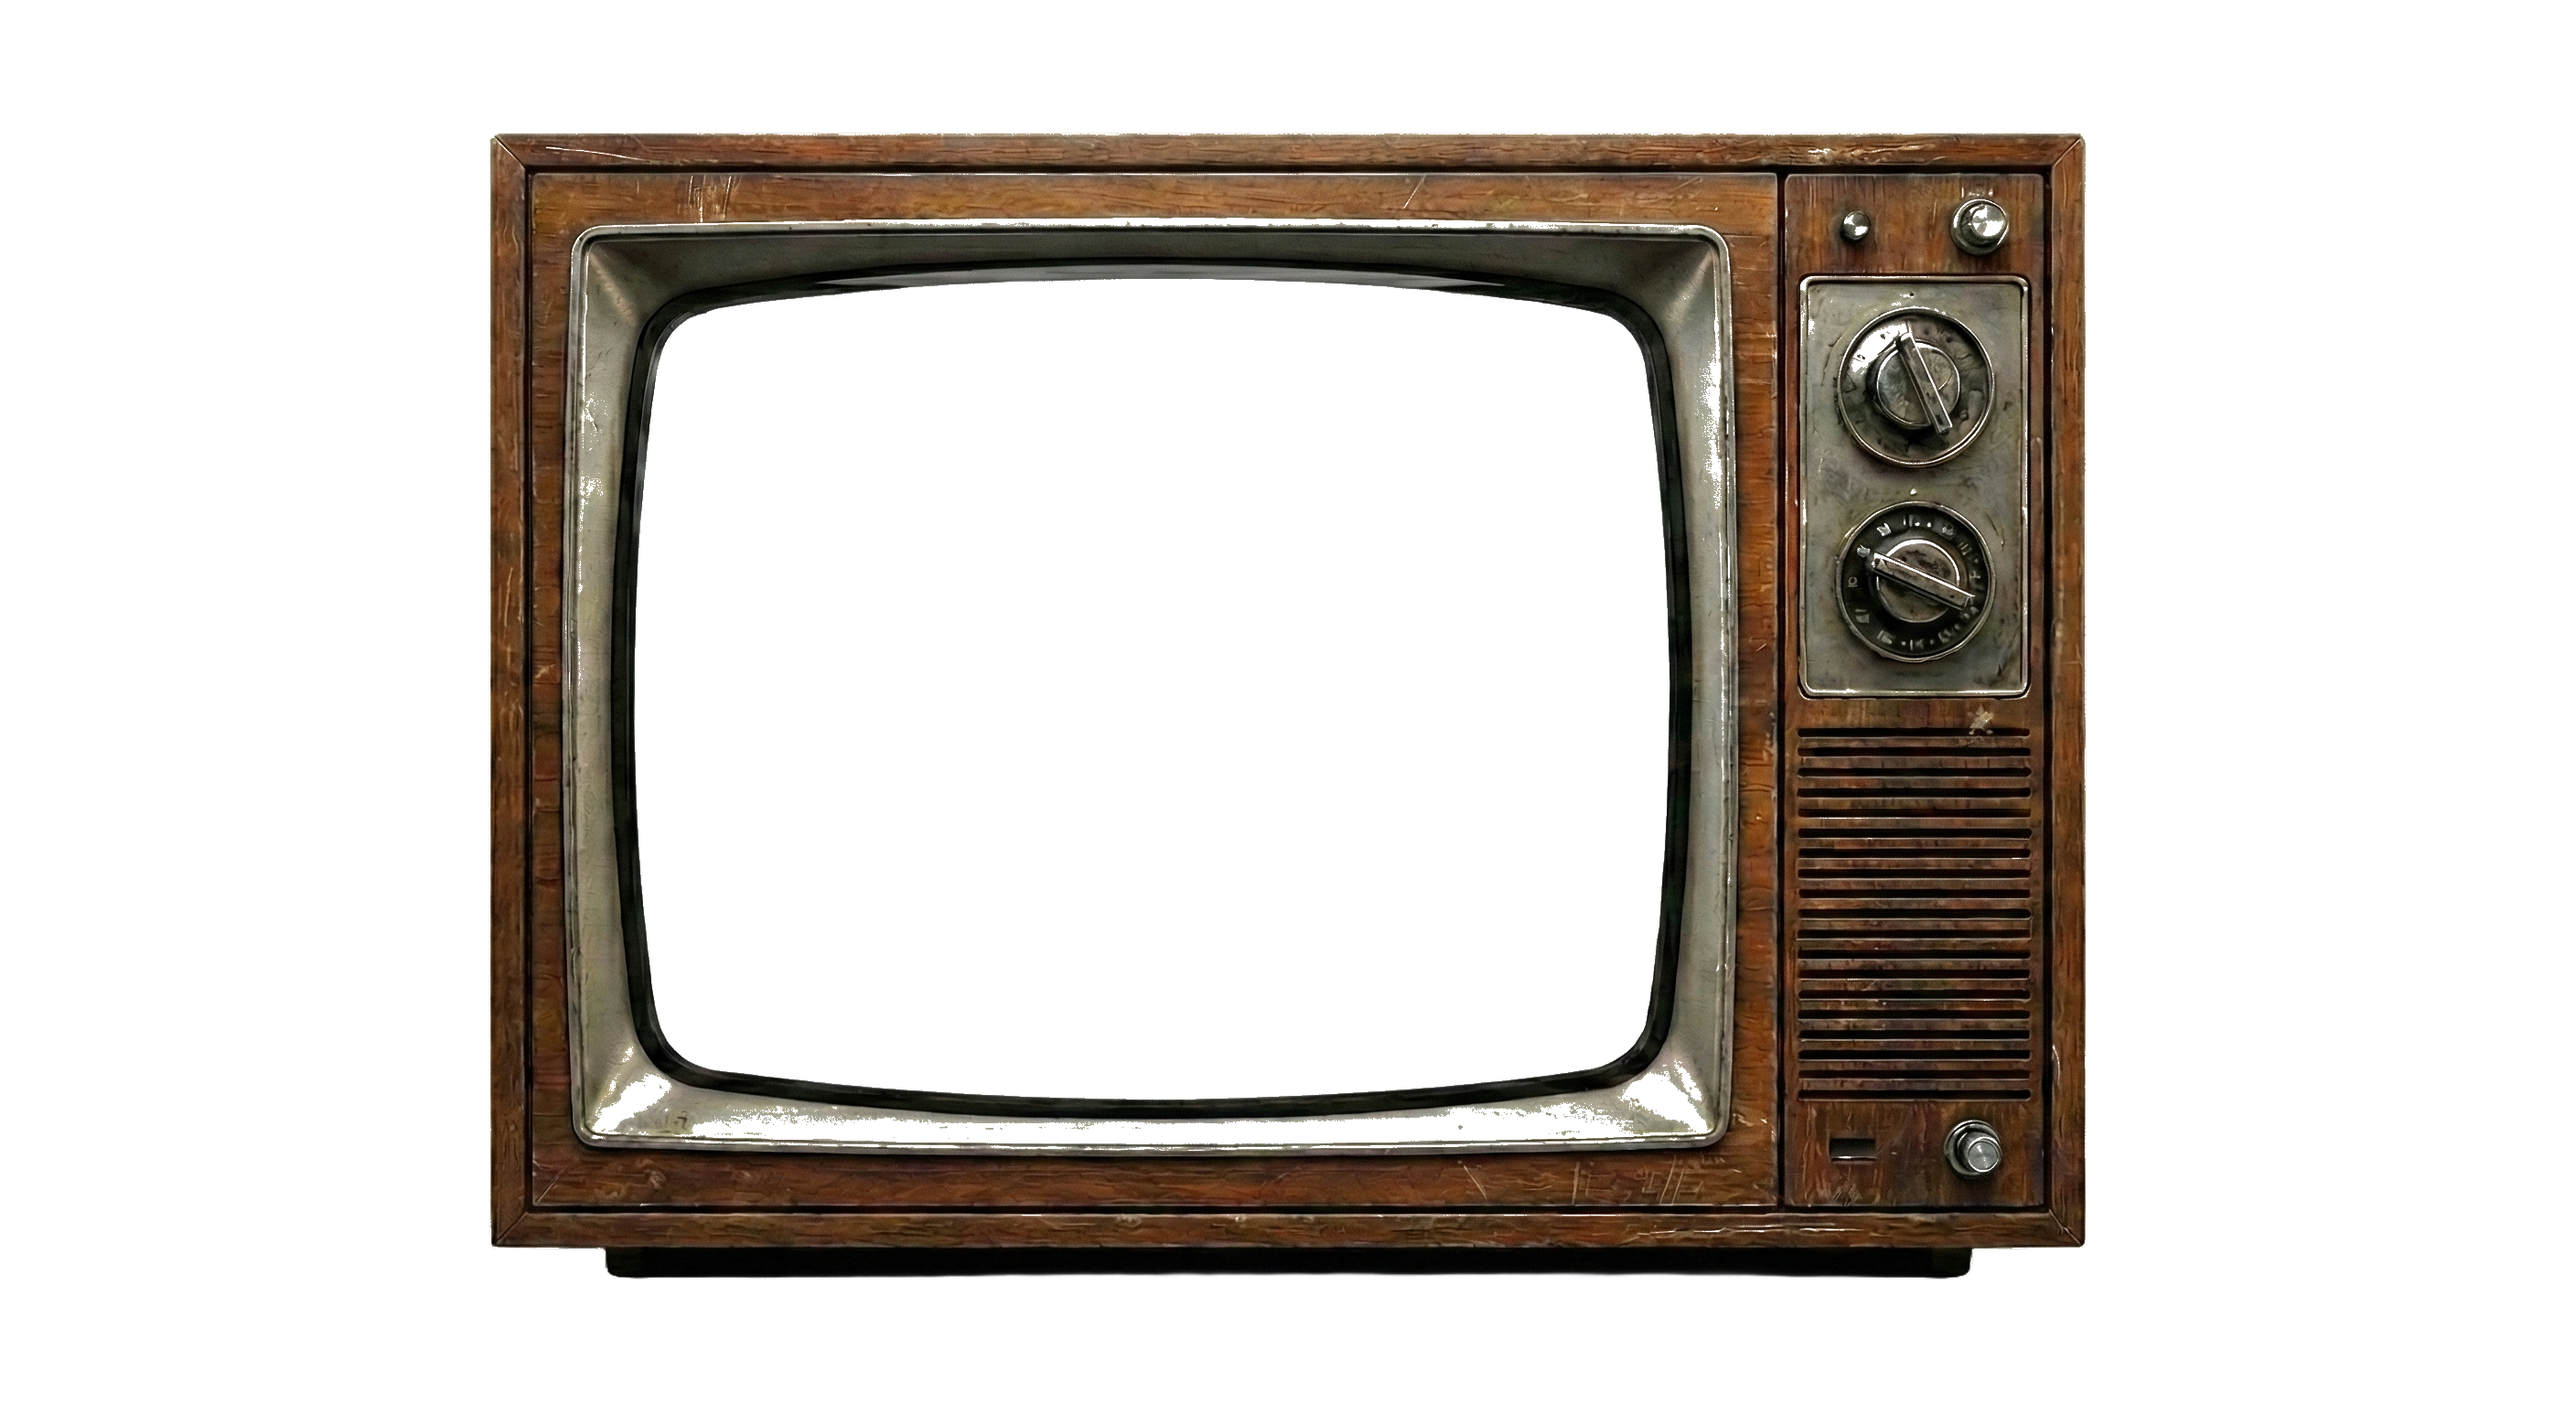
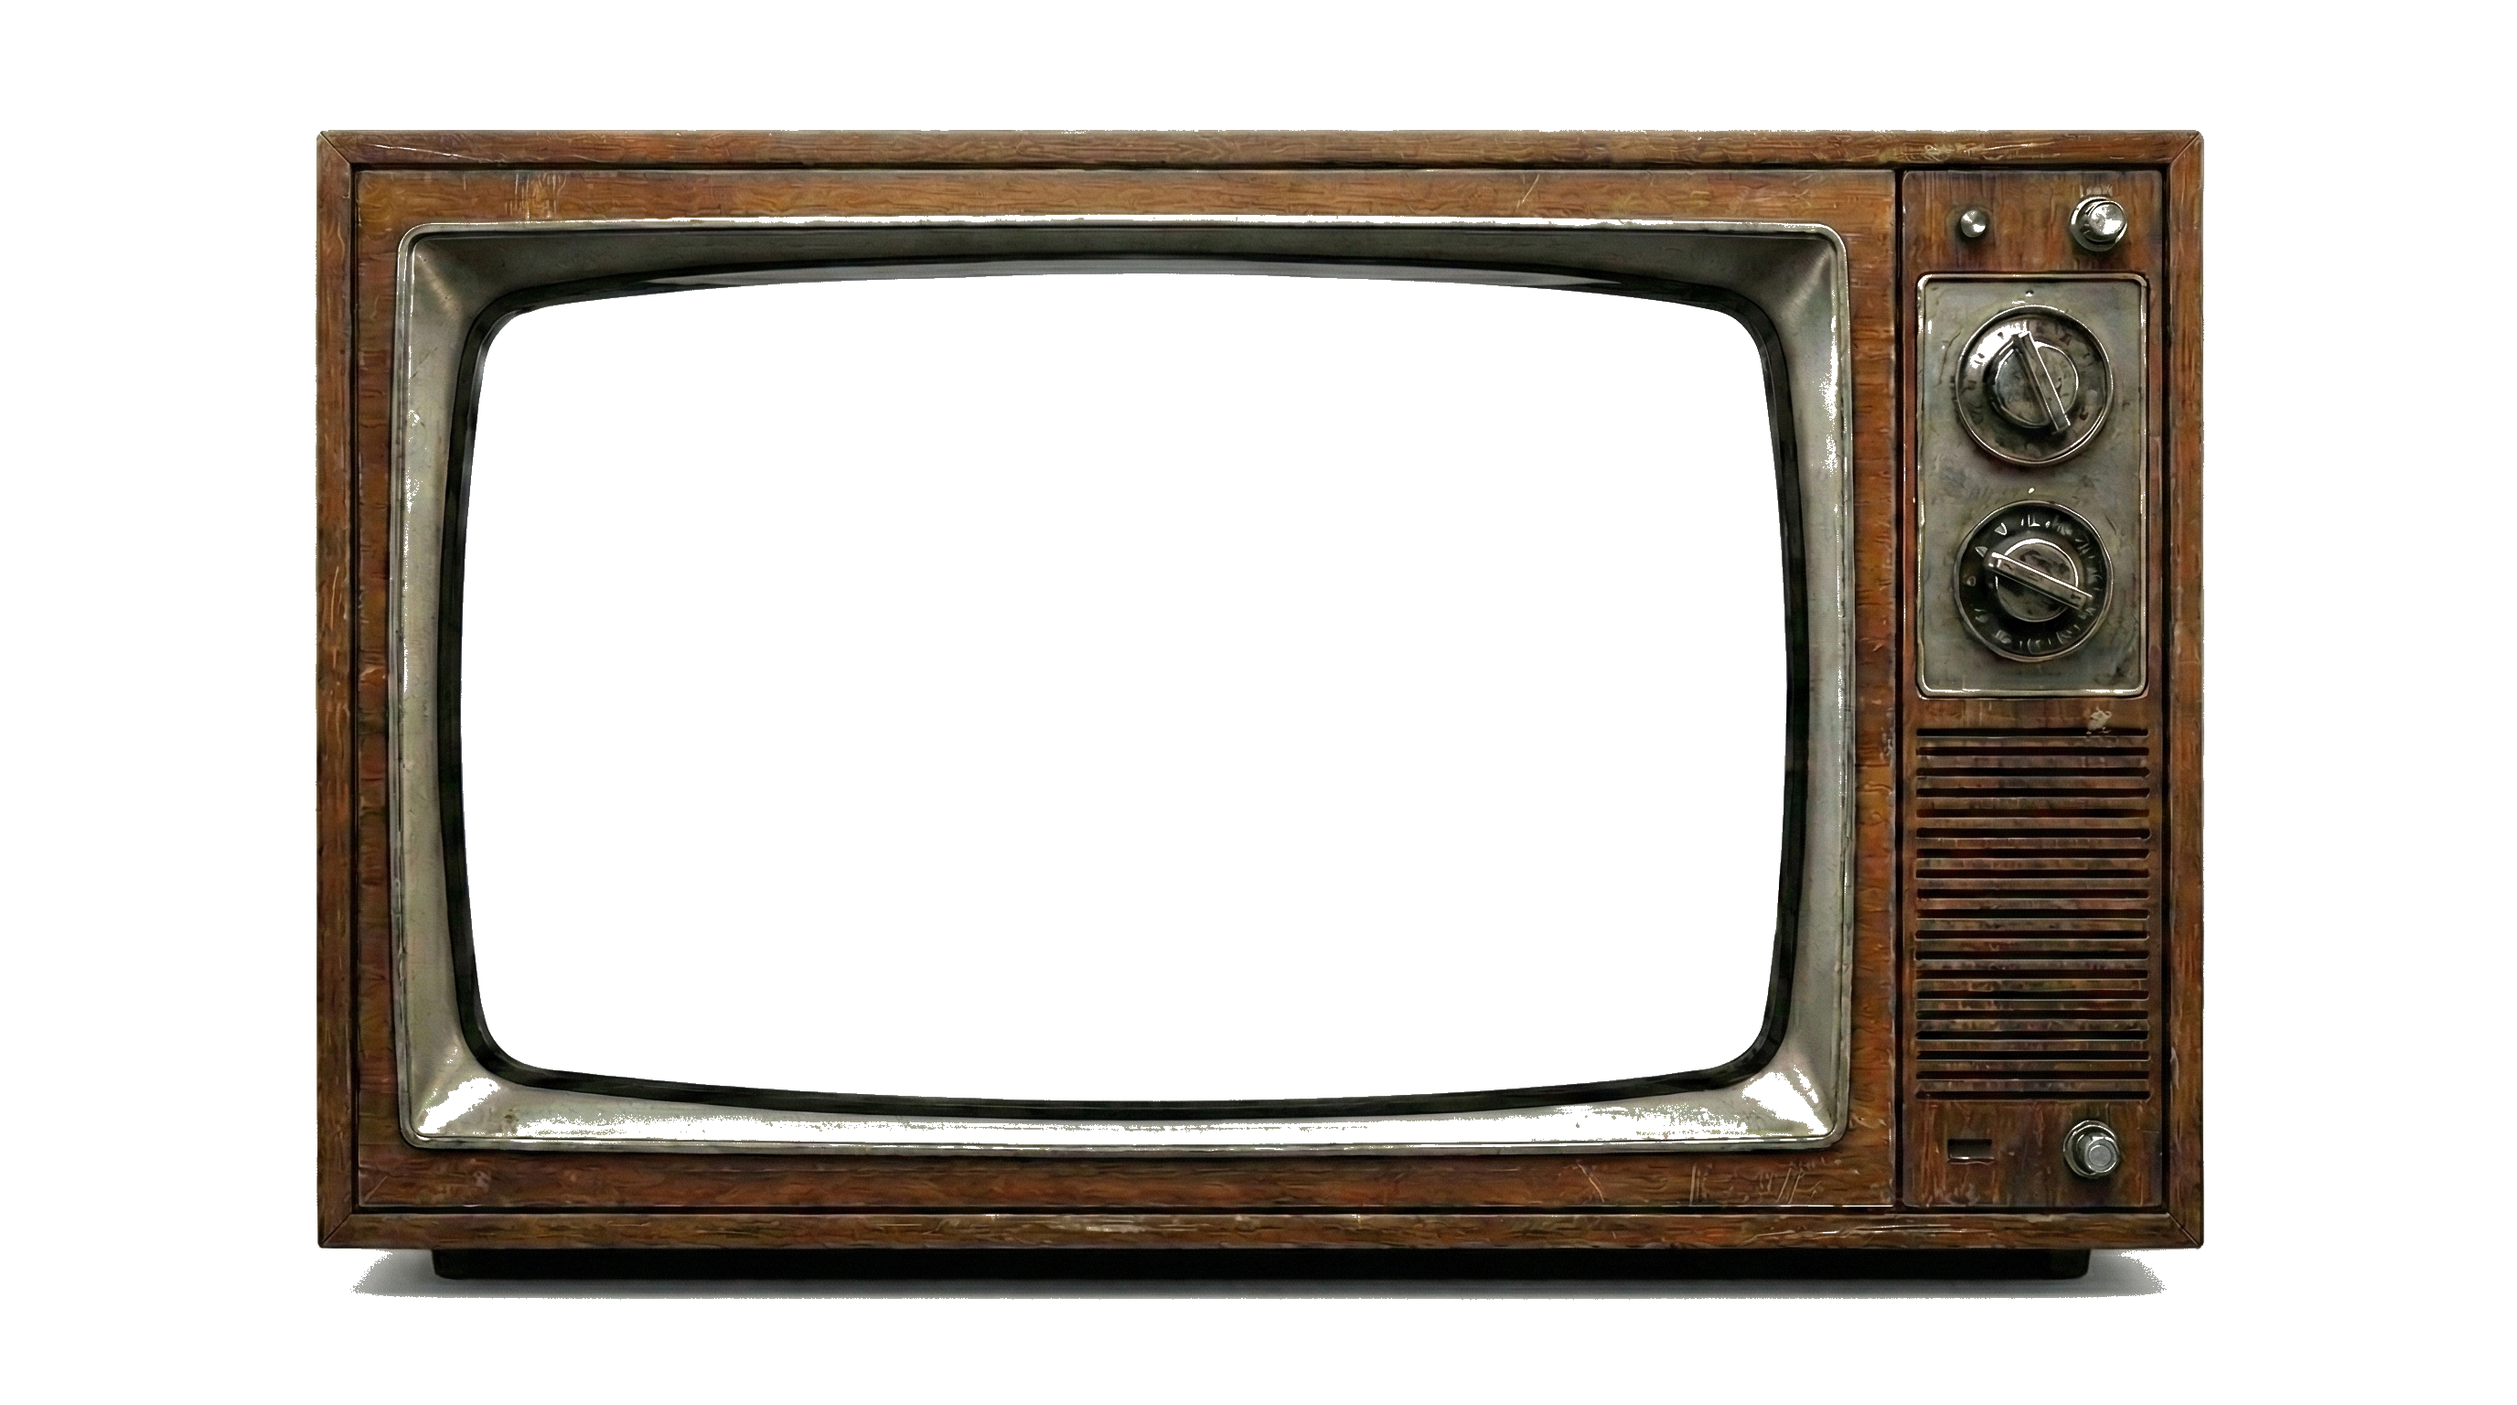
feat: latest episode section

diff --git a/styles/main.css b/styles/main.css
@@ -729,6 +729,94 @@ body::before {
 }
 
 /* ================================================
+   Latest Episode TV Section
+   ================================================ */
+#latest-episode-section {
+  min-height: 100vh;
+  min-height: 100dvh;
+  padding: 5rem 2.5rem;
+  background: transparent;
+  display: flex;
+  flex-direction: column;
+  align-items: center;
+  justify-content: center;
+  position: relative;
+  width: 100%;
+  max-width: 100%;
+}
+
+.latest-episode-title {
+  font-family: var(--font-display);
+  font-size: clamp(1.8rem, 5vw, 3rem);
+  font-weight: normal;
+  color: var(--color-text);
+  text-align: center;
+  margin-bottom: 2rem;
+  letter-spacing: 0.05em;
+  text-shadow: 0 2px 12px rgba(0, 0, 0, 0.5);
+}
+
+.tv-container {
+  position: relative;
+  width: 100%;
+  max-width: 700px;
+  margin: 0 auto;
+  overflow: hidden;
+}
+
+.tv-frame {
+  display: block;
+  width: 100%;
+  height: auto;
+  position: relative;
+  z-index: 2;
+  pointer-events: none;
+}
+
+.tv-video-wrapper {
+  position: absolute;
+  /* These values position the iframe inside the TV screen area */
+  top: 20%;
+  left: 16.5%;
+  width: 57%;
+  z-index: 1;
+  overflow: hidden;
+  border-radius: 6px;
+  aspect-ratio: 16 / 9;
+}
+
+.tv-video-wrapper iframe {
+  width: 100%;
+  height: 100%;
+  border: none;
+}
+
+/* Scroll indicator for latest episode section */
+.latest-episode-scroll-indicator {
+  margin-top: 2rem;
+}
+
+/* Episode description below TV */
+.episode-description {
+  max-width: 620px;
+  margin: 2rem auto 0;
+  padding: 0 1.5rem;
+  text-align: center;
+}
+
+.episode-description p {
+  font-family: var(--font-body);
+  font-size: clamp(0.9rem, 2.2vw, 1.05rem);
+  color: rgba(255, 255, 255, 0.8);
+  line-height: 1.8;
+  margin-bottom: 1rem;
+}
+
+.episode-description p:last-child {
+  margin-bottom: 0;
+}
+
+/* ================================================
    Choose Your Mood Section
    ================================================ */
 #mood-selector {
@@ -1638,6 +1726,15 @@ body::before {
   .host-card {
     max-width: 340px;
     padding: 1.5rem 1.25rem 1.125rem;
+  }
+
+  /* Latest Episode TV Section - Mobile */
+  #latest-episode-section {
+    padding: 3.75rem 1.25rem;
+  }
+
+  .tv-container {
+    max-width: 100%;
   }
 
   /* Mood Section - Mobile */

diff --git a/index.html b/index.html
@@ -18,6 +18,8 @@
   <link rel="stylesheet" href="https://cdnjs.cloudflare.com/ajax/libs/font-awesome/6.4.2/css/all.min.css">
   <!-- SoundCloud Widget API -->
   <script src="https://w.soundcloud.com/player/api.js"></script>
+  <!-- YouTube IFrame API -->
+  <script src="https://www.youtube.com/iframe_api"></script>
 </head>
 <body class="home">
   <nav class="nav-bar">
@@ -71,6 +73,35 @@
       <span class="scroll-arrow"></span>
     </div>
   </div>
+
+  <!-- Latest Episode TV Section -->
+  <section id="latest-episode-section">
+    <h2 class="latest-episode-title">Listen to our latest episode</h2>
+    <div class="tv-container">
+      <div class="tv-video-wrapper">
+        <iframe 
+          id="yt-latest-episode"
+          width="560" 
+          height="315" 
+          src="https://www.youtube.com/embed/LOmDkqgCMCU?enablejsapi=1" 
+          title="Sedna FM Latest Episode" 
+          frameborder="0" 
+          allow="accelerometer; autoplay; clipboard-write; encrypted-media; gyroscope; picture-in-picture; web-share" 
+          referrerpolicy="strict-origin-when-cross-origin" 
+          allowfullscreen>
+        </iframe>
+      </div>
+      <img src="assets/images/old-tv.png" alt="Retro TV" class="tv-frame">
+    </div>
+    <!-- TODO: Replace static description below with dynamic description loaded from data source -->
+    <div class="episode-description">
+      <p>In this Morning Drop, Yasmin explores the explosive rise of Auto-Tune, the curious story of how it was invented, how it moved from the background of studios to the center of debate, and how a few artists turned it into something expressive rather than hidden.</p>
+    </div>
+    <!-- Scroll Down Indicator -->
+    <div class="scroll-indicator latest-episode-scroll-indicator">
+      <span class="scroll-arrow"></span>
+    </div>
+  </section>
 
   <!-- Choose Your Mood Section -->
   <section id="mood-selector">

diff --git a/scripts/modules/mediaCoordinator.js b/scripts/modules/mediaCoordinator.js
@@ -1,0 +1,52 @@
+// Media Coordinator for Sedna FM
+// Ensures only one media source plays at a time (radio, mood, daily fact, YouTube)
+
+let ytPlayer = null;
+const pauseFns = {};
+
+/**
+ * Register a pause function for a named source
+ * @param {string} name - Source name (e.g. 'radio', 'mood', 'dailyFact')
+ * @param {Function} pauseFn - Function that pauses that source
+ */
+export function registerSource(name, pauseFn) {
+  pauseFns[name] = pauseFn;
+}
+
+/**
+ * Set the YouTube player reference (YT.Player instance)
+ * @param {Object} player - YT.Player instance
+ */
+export function setYouTubePlayer(player) {
+  ytPlayer = player;
+}
+
+/**
+ * Called when any source starts playing.
+ * Pauses all other sources including YouTube.
+ * @param {string} activeName - The name of the source that just started playing
+ */
+export function notifyPlay(activeName) {
+  // Pause all SoundCloud sources except the active one
+  for (const [name, pauseFn] of Object.entries(pauseFns)) {
+    if (name !== activeName) {
+      try { pauseFn(); } catch (e) { /* ignore */ }
+    }
+  }
+
+  // Pause YouTube if a non-YouTube source started
+  if (activeName !== 'youtube' && ytPlayer) {
+    try {
+      ytPlayer.pauseVideo();
+    } catch (e) { /* iframe may not be ready */ }
+  }
+}
+
+/**
+ * Pause YouTube video (convenience export)
+ */
+export function pauseYouTube() {
+  if (ytPlayer) {
+    try { ytPlayer.pauseVideo(); } catch (e) { /* ignore */ }
+  }
+}

diff --git a/scripts/modules/player.js b/scripts/modules/player.js
@@ -3,6 +3,7 @@ import { getRandom } from './utils.js';
 import { EPISODES } from './episodes.js';
 import { updateArtworkAndTitle, updatePlayPauseIcon, updateChannelHighlighting, showToast } from './ui.js';
 import { getChannelEpisodes, getRandomChannelEpisode, getAllEpisodes } from './channels.js';
+import { registerSource, notifyPlay } from './mediaCoordinator.js';
 
 // State
 let widget = null;
@@ -15,6 +16,17 @@ let activeChannel = null; // null = all episodes, 1-4 = specific channel
 function fetchSednaTracks() {
   return Array.isArray(EPISODES) ? EPISODES : [];
 }
+
+// Register radio player's pause function with the media coordinator
+registerSource('radio', () => {
+  if (widget) {
+    try { widget.pause(); } catch (e) { /* ignore */ }
+  }
+  isPlaying = false;
+  updatePlayPauseIcon();
+  const playBtn = document.getElementById('radio-play-btn');
+  if (playBtn) playBtn.classList.remove('playing');
+});
 
 /**
  * Get the current active channel
@@ -108,6 +120,8 @@ function embedSoundCloud(trackUrl) {
         isPlaying = true;
         updatePlayPauseIcon();
         updateArtworkAndTitle();
+        // Pause all other media sources
+        notifyPlay('radio');
         // Add playing class to stop pulsing animation
         const playBtn = document.getElementById('radio-play-btn');
         if (playBtn) playBtn.classList.add('playing');

diff --git a/scripts/main.js b/scripts/main.js
@@ -14,6 +14,7 @@ import { initSubscribe } from './modules/subscribe.js';
 import { initScrollIndicators } from './modules/scroll.js';
 import { initMoodSelector } from './modules/mood.js';
 import { initDailyFact } from './modules/dailyFact.js';
+import { setYouTubePlayer, notifyPlay } from './modules/mediaCoordinator.js';
 
 // Patch embedSoundCloud to call setupArtworkListener after widget is created
 const _origEmbedSoundCloud = embedSoundCloud;
@@ -55,4 +56,29 @@ document.addEventListener('DOMContentLoaded', function() {
 
   // Initialize daily fact feature
   initDailyFact();
+
+  // Initialize YouTube player for media coordination
+  // The YouTube IFrame API calls onYouTubeIframeAPIReady when ready
+  function initYouTubePlayer() {
+    if (typeof YT !== 'undefined' && YT.Player) {
+      const player = new YT.Player('yt-latest-episode', {
+        events: {
+          onStateChange: (event) => {
+            // YT.PlayerState.PLAYING === 1
+            if (event.data === 1) {
+              notifyPlay('youtube');
+            }
+          }
+        }
+      });
+      setYouTubePlayer(player);
+    }
+  }
+
+  // YouTube API may already be loaded or will call onYouTubeIframeAPIReady
+  if (typeof YT !== 'undefined' && YT.Player) {
+    initYouTubePlayer();
+  } else {
+    window.onYouTubeIframeAPIReady = initYouTubePlayer;
+  }
 });

diff --git a/scripts/modules/mood.js b/scripts/modules/mood.js
@@ -2,6 +2,7 @@
 // Connects mood buttons to Azure AI recommendation API
 
 import { API_BASE } from './apiConfig.js';
+import { notifyPlay, registerSource } from './mediaCoordinator.js';
 
 const API_URL = `${API_BASE}/api/recommend`;
 
@@ -13,6 +14,15 @@ let currentMoodEpisode = null;
 let moodWidget = null;
 let isMoodPlaying = false;
 let currentMood = null;
+
+// Register mood player's pause function with the media coordinator
+registerSource('mood', () => {
+  if (moodWidget) {
+    try { moodWidget.pause(); } catch (e) { /* ignore */ }
+  }
+  isMoodPlaying = false;
+  updateMoodPlayButtonIcon();
+});
 
 /**
  * Get played episodes from session storage
@@ -180,6 +190,8 @@ function embedMoodPlayer(trackUrl, autoPlay = false) {
       moodWidget.bind(SC.Widget.Events.PLAY, () => {
         isMoodPlaying = true;
         updateMoodPlayButtonIcon();
+        // Pause all other media sources
+        notifyPlay('mood');
       });
       
       moodWidget.bind(SC.Widget.Events.PAUSE, () => {

diff --git a/scripts/modules/dailyFact.js b/scripts/modules/dailyFact.js
@@ -1,10 +1,20 @@
 // Daily Fact & Match module for Sedna FM
 // Fetches today's fact and recommended episode, handles playback
+import { notifyPlay, registerSource } from './mediaCoordinator.js';
 
 // State
 let dailyFactEpisode = null;
 let dailyFactWidget = null;
 let isDailyFactPlaying = false;
+
+// Register daily fact player's pause function with the media coordinator
+registerSource('dailyFact', () => {
+  if (dailyFactWidget) {
+    try { dailyFactWidget.pause(); } catch (e) { /* ignore */ }
+  }
+  isDailyFactPlaying = false;
+  updateDailyFactPlayButton();
+});
 
 /**
  * Fetch the daily match data from the JSON file
@@ -175,6 +185,8 @@ function embedDailyFactPlayer(trackUrl, autoPlay = false) {
       dailyFactWidget.bind(SC.Widget.Events.PLAY, () => {
         isDailyFactPlaying = true;
         updateDailyFactPlayButton();
+        // Pause all other media sources
+        notifyPlay('dailyFact');
       });
       
       dailyFactWidget.bind(SC.Widget.Events.PAUSE, () => {

diff --git a/imprint.html b/imprint.html
@@ -11,7 +11,7 @@
   <link rel="stylesheet" href="https://use.typekit.net/joe7iau.css">
   
   <link rel="stylesheet" href="styles/main.css">
-  <!-- Google Fonts -->
+  <!-- Google git pulls -->
   <link href="https://fonts.googleapis.com/css2?family=Dancing+Script:wght@700&display=swap" rel="stylesheet">
   <!-- Font Awesome for social icons -->
   <link rel="stylesheet" href="https://cdnjs.cloudflare.com/ajax/libs/font-awesome/6.4.2/css/all.min.css">
